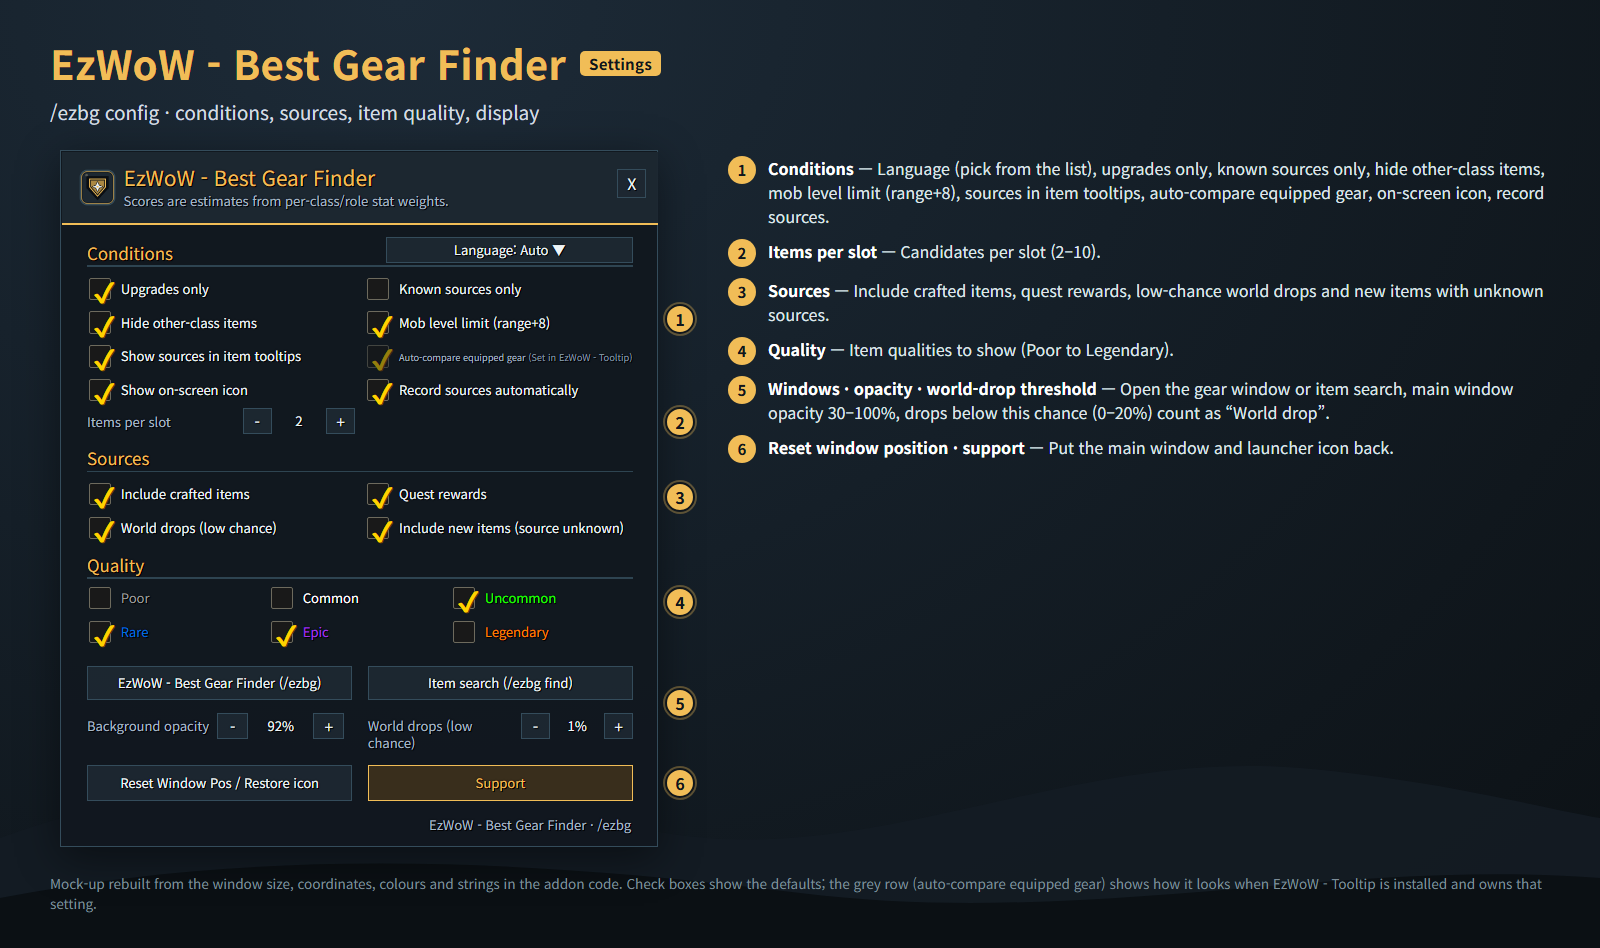
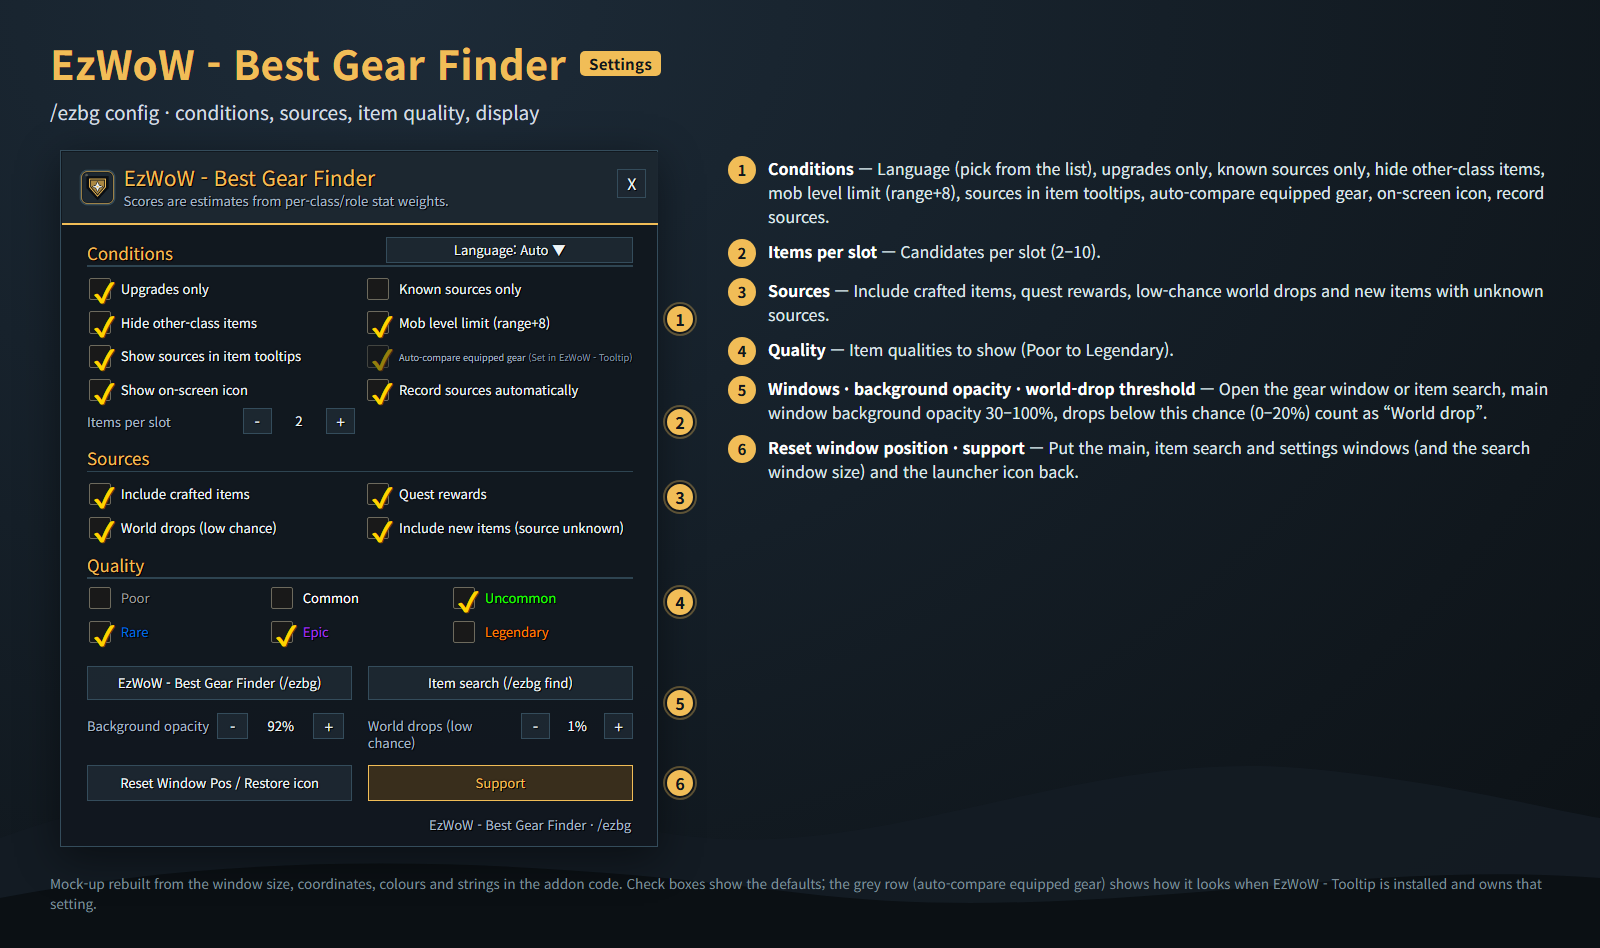
Update README, CurseForge description and example images

Changed region(s): [[0.4688, 0.3977, 0.9688, 0.4895], [0.4688, 0.4895, 0.6875, 0.52]]

diff --git a/scripts/make_readme_images.py b/scripts/make_readme_images.py
@@ -521,8 +521,8 @@ T = {
             ("슬롯당 표시 개수", "부위마다 보여 줄 후보 수(2~10)."),
             ("출처", "제작템, 퀘스트 보상, 저확률 월드 드랍, 출처 불명 신규 아이템 포함 여부."),
             ("등급", "표시할 아이템 품질(하급~전설)."),
-            ("창 열기 · 투명도 · 월드 드랍 기준", "추천 장비 창 · 아이템 검색 창 단추, 메인 창 불투명도 30~100%, 이 확률(0~20%) 미만 드랍은 “월드 드랍”."),
-            ("창 위치 초기화 · 후원", "메인 창과 런처 아이콘을 제자리로."),
+            ("창 열기 · 배경 불투명도 · 월드 드랍 기준", "추천 장비 창 · 아이템 검색 창 단추, 메인 창 배경 불투명도 30~100%, 이 확률(0~20%) 미만 드랍은 “월드 드랍”."),
+            ("창 위치 초기화 · 후원", "메인 창 · 아이템 검색 창 · 설정창 위치(검색 창 크기 포함)와 런처 아이콘을 제자리로."),
         ],
         "sFoot": "애드온 코드의 창 크기 · 좌표 · 색상 · 문구로 재현한 예시 화면입니다. 체크 상태는 기본값이며, 회색 줄(착용 장비 비교)은 EzWoW - Tooltip이 함께 설치되어 그쪽에서 설정하는 경우의 모습입니다.",
     },
@@ -568,8 +568,8 @@ T = {
             ("Items per slot", "Candidates per slot (2–10)."),
             ("Sources", "Include crafted items, quest rewards, low-chance world drops and new items with unknown sources."),
             ("Quality", "Item qualities to show (Poor to Legendary)."),
-            ("Windows · opacity · world-drop threshold", "Open the gear window or item search, main window opacity 30–100%, drops below this chance (0–20%) count as “World drop”."),
-            ("Reset window position · support", "Put the main window and launcher icon back."),
+            ("Windows · background opacity · world-drop threshold", "Open the gear window or item search, main window background opacity 30–100%, drops below this chance (0–20%) count as “World drop”."),
+            ("Reset window position · support", "Put the main, item search and settings windows (and the search window size) and the launcher icon back."),
         ],
         "sFoot": "Mock-up rebuilt from the window size, coordinates, colours and strings in the addon code. Check boxes show the defaults; the grey row (auto-compare equipped gear) shows how it looks when EzWoW - Tooltip is installed and owns that setting.",
     },

diff --git a/README.md b/README.md
@@ -37,7 +37,7 @@ WoW Forever (`Interface: 16001`) · `/ezbg`
 |---|---|---|
 | ① | 정렬 | **추천순**(직업·역할별 스탯 가중치 점수, 기본) 또는 **30레벨 BiS 우선**. 방어도·초당 공격력·힘·민첩성·체력·지능·정신력 등을 체크하면 **체크한 값의 합계가 큰 순서**로 정렬합니다. |
 | ② | 요구 레벨 범위 | 두 칸에 레벨을 넣고 **검색**(또는 Enter). **자동(현재-10)**은 “내 레벨-10 ~ 내 레벨”로 되돌리며, 레벨이 오르면 같이 올라갑니다. |
-| ③ | 역할 열 · 단추 | 직업의 특성별 열(예: 징벌(딜) · 신성(힐) · 보호(탱))을 나란히 보여 줍니다. 오른쪽 위 **내 캐릭터 ▼**에서 다른 직업을 골라 미리 볼 수 있습니다(이때는 내 장비와 비교하지 않습니다). **아이템 검색**은 전체 아이템 검색 창을, **설정**은 설정창을 엽니다. |
+| ③ | 역할 열 · 단추 | 직업의 특성별 열(예: 징벌(딜) · 신성(힐) · 보호(탱))을 나란히 보여 줍니다. 오른쪽 위 **내 캐릭터 ▼**에서 다른 직업을 골라 미리 볼 수 있습니다(이때는 내 장비와 비교하지 않습니다. 목록에는 지금 보고 있는 직업이 `>` 표시와 금색으로 나옵니다). 정렬·직업 펼침 메뉴는 바깥을 누르면 닫힙니다. **아이템 검색**은 전체 아이템 검색 창을, **설정**은 설정창을 엽니다. |
 | ④ | 부위(슬롯) 헤더 | 클릭하면 모든 역할 열에서 그 부위를 접거나 펼칩니다. 접힌 상태는 저장됩니다. |
 | ⑤ | 추천 행 | 녹색 배경과 `▲ +%`는 **업그레이드**, 회색 `%`는 참고용, `BiS`(노랑)/`BiS*`(회색)는 30레벨 BiS 목록 1순위/대체 장비입니다. 셋째 줄은 **요구 레벨 · 획득처**(던전 이름, `제작:대장기술`, `퀘스트:…`, `상인:…`, `월드 드랍`)입니다. |
 | ⑥ | 행 툴팁 | 착용 장비 대비 변화, 추정 점수(이 아이템 / 착용 중)를 보여 줍니다. **우클릭**: EzWoW - Map Finder로 획득처(보스·퀘스트 `Q `·상인 `N `) 위치 검색 / **Shift+좌클릭**: 채팅 링크 / **Ctrl+좌클릭**: 착용 미리보기 |
@@ -47,9 +47,10 @@ WoW Forever (`Interface: 16001`) · `/ezbg`
 #### 그 밖의 기능
 
 - **퀘스트 수락 레벨 검사**: 지금 레벨(또는 지정한 범위)에서 받을 수 없는 고레벨 퀘스트 보상은 후보에서 뺍니다.
-- **획득처 자동 기록**: 전리품, 퀘스트 보상, 상인 목록에서 기본 데이터에 없던 획득처를 배워 바로 추천과 툴팁에 반영합니다(`/ezbg 기록`, `/ezbg 내보내기`).
+- **획득처 자동 기록**: 전리품, 퀘스트 보상, 상인 목록에서 기본 데이터에 없던 획득처를 배워 바로 추천과 툴팁에 반영합니다(`/ezbg 기록`, `/ezbg 내보내기`). 회색(잡동사니) 아이템은 기록하지 않고, 예전에 기록된 회색 아이템 항목은 자동으로 지웁니다. 전투 중에 기록되면 “획득처를 기록했습니다” 알림은 전투가 끝난 뒤 채팅에 나옵니다.
 - **아이템 툴팁 확장**: 가방·보상·채팅 링크 아이템에 역할별 BiS 여부와 획득처를 덧붙입니다. 목록에 마우스를 올리면 착용 장비 비교 툴팁을 함께 띄웁니다.
-- **전체 아이템 검색 창** (`/ezbg find 이름`): 이름, 드랍 보스, 요구 레벨, 품질, 획득처 종류, 착용 분류(무기·방어구·방패·성물·목걸이·반지·장신구 등)로 전체 데이터베이스를 찾습니다.
+- **전체 아이템 검색 창** (`/ezbg find 이름`): 이름, 드랍 보스, 요구 레벨, 품질, 획득처 종류, 착용 분류(무기·방어구·방패·성물·목걸이·반지·장신구 등)로 전체 데이터베이스를 찾습니다. 오른쪽 아래 모서리를 끌어 창 크기를 바꿀 수 있고(크기 저장), 배경 불투명도 막대가 있습니다.
+- **가벼운 백그라운드 준비**: 아이템 목록은 창을 열거나 툴팁 표시가 필요할 때 조금씩 만들며, 전투 중에는 잠시 멈췄다가 전투가 끝나면 이어 갑니다.
 
 ### 설정창 (`/ezbg config`)
 
@@ -70,9 +71,9 @@ WoW Forever (`Interface: 16001`) · `/ezbg`
 | ③ | 신규 아이템 포함 (출처 불명) | 게임에서 새로 확인된 출처 미확인 아이템 포함 | 켬 |
 | ④ | 등급 | 하급·일반·고급·희귀·영웅·전설 중 표시할 품질 | 고급·희귀·영웅 |
 | ⑤ | 창 열기 버튼 | 추천 장비 창(/ezbg), 아이템 검색 창(/ezbg find) | - |
-| ⑥ | 투명도 | 메인 창 배경 30~100% (5% 단위) | 92% |
+| ⑥ | 배경 불투명도 | 메인 창 배경 30~100% (5% 단위) | 92% |
 | ⑥ | 월드 드랍 기준 | 이 확률(0~20%, 0.5% 단위) 미만 드랍은 “월드 드랍”으로 분류 | 1% |
-| ⑦ | 창 위치 초기화 / 아이콘 복원 · 후원 | 메인 창과 런처 아이콘 위치 초기화 | - |
+| ⑦ | 창 위치 초기화 / 아이콘 복원 · 후원 | 메인 창 · 아이템 검색 창 · 설정창 위치와 검색 창 크기, 런처 아이콘 위치 초기화 | - |
 
 ### 명령어 (`/ezbg`, `/bgf`, `/bestgear`, `/내템`)
 
@@ -89,14 +90,14 @@ WoW Forever (`Interface: 16001`) · `/ezbg`
 | `/ezbg 아이콘` (`icon`) | 런처 아이콘 보이기/숨기기 |
 | `/ezbg 재검색` (`rescan`) | 신규 아이템 캐시 초기화 후 다시 탐색 |
 | `/ezbg 기록` · `/ezbg 내보내기` | 자동 학습한 획득처 수 · 내보내기 창 |
-| `/ezbg 슬롯` · `/ezbg 진단` · `/ezbg 왜 아이템ID` | 슬롯별 요약 · 상태 진단 · 특정 아이템이 왜 빠졌는지 |
-| `/ezbg 초기화` (`reset`) | 창·아이콘 위치 초기화 |
+| `/ezbg 슬롯` · `/ezbg 진단` · `/ezbg 왜 아이템ID` · `/ezbg 툴팁` | 슬롯별 요약 · 상태 진단 · 특정 아이템이 왜 빠졌는지 · 아이템 툴팁 진단 |
+| `/ezbg 초기화` (`reset`) | 창(메인 · 검색 · 설정) 위치, 검색 창 크기, 아이콘 위치 초기화 |
 | `/ezbg lang <auto\|ko\|en\|de\|fr\|es\|ru\|cn\|tw>` | 표시 언어 변경 |
 | `/ezbg 도움말` (`help`) | 주요 명령어 목록 |
 
 ### 저장 데이터
 
-- `EzWoW_BestGearFinderDB`: 설정, 캐릭터별 레벨 범위, 접힌 부위, 창 위치, 자동 학습한 획득처.
+- `EzWoW_BestGearFinderDB`: 설정, 캐릭터별 레벨 범위, 접힌 부위, 창 위치, 검색 창 크기, 자동 학습한 획득처.
 
 ### 알아두면 좋은 점
 
@@ -137,7 +138,7 @@ Best Gear Finder shows the **best gear you can wear right now** for your class a
 |---|---|---|
 | ① | Sort | **Recommended** (role stat-weight score, default) or **Level 30 BiS first**. Tick armor, DPS, Strength, Agility, Stamina, Intellect, Spirit… to sort by **the sum of the ticked stats**. |
 | ② | Required-level range | Enter two levels and press **Search** (or Enter). **Auto (Lv-10)** returns to “your level - 10 ~ your level” and follows you as you level. |
-| ③ | Role columns · buttons | One column per spec (e.g. Retribution (DPS) · Holy (Heal) · Protection (Tank)). **My character ▼** previews other classes (no comparison with your gear in that mode). **Item search** opens the full item search, **Settings** the settings window. |
+| ③ | Role columns · buttons | One column per spec (e.g. Retribution (DPS) · Holy (Heal) · Protection (Tank)). **My character ▼** previews other classes (no comparison with your gear in that mode; the class being shown is marked with `>` in gold). The sort and class drop-downs close when you click anywhere else. **Item search** opens the full item search, **Settings** the settings window. |
 | ④ | Slot header | Click to collapse/expand that slot in every column. The state is saved. |
 | ⑤ | Item row | Green background and `▲ +%` = **upgrade**, grey `%` = reference only, `BiS` (yellow) / `BiS*` (grey) = level-30 BiS main / alternative. The third line shows **required level · source** (dungeon, `Craft: Blacksmithing`, `Quest: …`, `Vendor: …`, `World drop`). |
 | ⑥ | Row tooltip | Change versus equipped and estimated score (this item / equipped). **Right-click**: find the source (boss, quest `Q `, vendor `N `) with EzWoW - Map Finder / **Shift+left-click**: link in chat / **Ctrl+left-click**: dress-up preview |
@@ -147,9 +148,10 @@ Best Gear Finder shows the **best gear you can wear right now** for your class a
 #### More features
 
 - **Quest level check**: quest rewards you cannot pick up yet at your level (or chosen range) are left out.
-- **Learning sources**: loot, quest rewards and vendor lists teach the addon sources missing from its data; they show up in recommendations and tooltips at once (`/ezbg 기록`, `/ezbg export`).
+- **Learning sources**: loot, quest rewards and vendor lists teach the addon sources missing from its data; they show up in recommendations and tooltips at once (`/ezbg learned`, `/ezbg export`). Grey (junk) items are never recorded, and entries recorded for them earlier are removed. When a source is recorded during combat, the chat notice appears after the fight.
 - **Item tooltips**: bag, reward and chat-link tooltips get BiS info per role and the sources. Hovering list rows also opens the equipped-gear comparison.
-- **Full item search** (`/ezbg find name`): search the whole database by name, boss, required level, quality, source type and equip slot (weapons, armor, shields, relics, necks, rings, trinkets, …).
+- **Full item search** (`/ezbg find name`): search the whole database by name, boss, required level, quality, source type and equip slot (weapons, armor, shields, relics, necks, rings, trinkets, …). Drag its bottom-right corner to resize it (the size is saved); it has its own background opacity slider.
+- **Light background work**: the item list is built in small steps when it is needed (opening the window or showing tooltip sources) and pauses during combat, continuing afterwards.
 
 ### Settings window (`/ezbg config`)
 
@@ -170,9 +172,9 @@ Best Gear Finder shows the **best gear you can wear right now** for your class a
 | ③ | Include new items (source unknown) | Items newly seen in the game with no known source | On |
 | ④ | Quality | Poor, Common, Uncommon, Rare, Epic, Legendary | Uncommon · Rare · Epic |
 | ⑤ | Window buttons | Gear window (/ezbg), item search (/ezbg find) | - |
-| ⑥ | Opacity | Main window background 30–100% (5% steps) | 92% |
+| ⑥ | Background opacity | Main window background 30–100% (5% steps) | 92% |
 | ⑥ | World-drop threshold | Drops below this chance (0–20%, 0.5% steps) count as “World drop” | 1% |
-| ⑦ | Reset Window Pos / Restore icon · Support | Reset the main window and launcher icon | - |
+| ⑦ | Reset Window Pos / Restore icon · Support | Reset the main, item search and settings window positions, the search window size and the launcher icon | - |
 
 ### Slash commands (`/ezbg`, `/bgf`, `/bestgear`, `/내템`)
 
@@ -189,14 +191,14 @@ Best Gear Finder shows the **best gear you can wear right now** for your class a
 | `/ezbg icon` | Show/hide the launcher icon |
 | `/ezbg rescan` | Clear the new-item cache and scan again |
 | `/ezbg learned` · `/ezbg export` | Count of learned sources · export window |
-| `/ezbg slot` · `/ezbg diag` · `/ezbg why itemID` | Per-slot summary · diagnostics · why an item is excluded |
-| `/ezbg reset` | Reset window and icon positions |
+| `/ezbg slot` · `/ezbg diag` · `/ezbg why itemID` · `/ezbg tip` | Per-slot summary · diagnostics · why an item is excluded · item tooltip diagnostics |
+| `/ezbg reset` | Reset window positions (main, search, settings), the search window size and the icon position |
 | `/ezbg lang <auto\|ko\|en\|de\|fr\|es\|ru\|cn\|tw>` | Change display language |
 | `/ezbg help` | List the main commands |
 
 ### Saved data
 
-- `EzWoW_BestGearFinderDB`: settings, per-character level range, collapsed slots, window position, learned sources.
+- `EzWoW_BestGearFinderDB`: settings, per-character level range, collapsed slots, window positions, search window size, learned sources.
 
 ### Tips
 

diff --git a/docs/curseforge_description.md b/docs/curseforge_description.md
@@ -1,5 +1,6 @@
 <!--
 CurseForge summary (EN): Finds the best gear you can wear right now for your class and level, DPS / heal / tank side by side, and shows where it drops, who crafts it or which quest gives it.
+CurseForge summary (KO): 내 직업·레벨에서 지금 입을 수 있는 최고 장비를 딜/힐/탱 나란히 비교하고, 어디서 드랍되는지·누가 만드는지·어떤 퀘스트에서 주는지 알려 줍니다.
 -->
 
 # EzWoW - Best Gear Finder
@@ -17,20 +18,25 @@ Finds the **best gear you can wear right now** for your class and level, slot by
 ## Features
 
 ### Gear window (`/ezbg`)
-- One column per spec (for example Retribution / Holy / Protection), one block per slot; click a slot header to fold it.
+- One column per spec (for example Retribution / Holy / Protection), one block per slot; click a slot header to fold it in every column.
 - Sort by recommendation (role stat weights), level-30 BiS first, or by the sum of chosen stats (armor, DPS, Strength, Agility, Stamina, Intellect, Spirit).
 - Required-level range you can type, or "Auto" (your level - 10 up to your level) that follows you as you level.
 - Green rows and ▲ mark upgrades; `BiS` / `BiS*` mark the level-30 BiS list; the third line shows the required level and source.
 - Hover a row for the comparison with your equipped item and the estimated score. Right-click to find the source on the map (with EzWoW - Map Finder), Shift+click to link, Ctrl+click to preview.
-- Preview other classes from the "My character" menu.
+- Preview other classes from the "My character" menu (the class being shown is marked). Drop-down menus close when you click anywhere else.
+- Drag the bottom-right corner to change the window height; the background opacity is set in the settings.
 
 ### Item tooltips
 - Bag, reward and chat-link gear shows BiS per role and the sources; crafted gear also lists reagents and where the recipe is learned.
 
+### Item search (`/ezbg find name`)
+- Search the whole database by name, boss, required level, quality, source type and slot (weapons, armor, shields, relics, necks, rings, trinkets…).
+- The window can be resized from its bottom-right corner; the size is remembered.
+
 ### More
-- Full item search (`/ezbg find name`) by name, boss, level, quality, source type and slot.
-- Learns sources that are missing from its data while you loot, take quest rewards or browse vendors.
+- Learns sources that are missing from its data while you loot, take quest rewards or browse vendors. Grey (junk) items are skipped, and "source recorded" messages that come in during combat are shown after the fight.
 - Quest rewards you cannot pick up yet at your level are left out.
+- The item list is built in the background in small steps and pauses during combat.
 
 ## Working with other EzWoW addons
 - **EzWoW - Tooltip**: when this addon shows its source block on a gear tooltip, EzWoW - Tooltip leaves out its own source lines for that item. Comparing with equipped gear without Shift is set in EzWoW - Tooltip; the option here turns grey while it is installed.
@@ -41,6 +47,7 @@ Finds the **best gear you can wear right now** for your class and level, slot by
 - `/ezbg config` — settings
 - `/ezbg find name` — full item search
 - `/ezbg 20-35` — set the required-level range
+- `/ezbg reset` — put the windows and the launcher icon back
 - `/ezbg help` — list the commands
 
 Scores are estimates from per-class and per-role stat weights.
@@ -62,20 +69,25 @@ Languages: English, 한국어, Deutsch, Français, Español, Русский, 简
 ## 기능
 
 ### 추천 장비 창 (`/ezbg`)
-- 특성별 열(예: 징벌 / 신성 / 보호), 부위별 묶음. 부위 제목을 누르면 접고 펼칩니다.
+- 특성별 열(예: 징벌 / 신성 / 보호), 부위별 묶음. 부위 제목을 누르면 모든 열에서 접고 펼칩니다.
 - 추천순(역할별 스탯 가중치), 30레벨 BiS 우선, 또는 고른 스탯(방어도 · 초당 공격력 · 힘 · 민첩성 · 체력 · 지능 · 정신력)의 합계 순으로 정렬.
 - 요구 레벨 범위를 직접 입력하거나 "자동"(내 레벨-10 ~ 내 레벨)으로 두면 레벨이 오를 때 같이 바뀝니다.
 - 녹색 행과 ▲는 업그레이드, `BiS` / `BiS*`는 30레벨 BiS 목록, 셋째 줄은 요구 레벨과 획득처.
 - 행에 마우스를 올리면 착용 장비와의 비교와 추정 점수. 우클릭: 지도에서 획득처 찾기(EzWoW - Map Finder), Shift+클릭: 링크, Ctrl+클릭: 미리보기.
-- "내 캐릭터" 메뉴에서 다른 직업도 미리 볼 수 있습니다.
+- "내 캐릭터" 메뉴에서 다른 직업도 미리 볼 수 있습니다(지금 보고 있는 직업이 표시됨). 펼침 메뉴는 바깥을 누르면 닫힙니다.
+- 오른쪽 아래 모서리를 끌어 창 높이를 바꾸고, 배경 불투명도는 설정창에서 정합니다.
 
 ### 아이템 툴팁
 - 가방 · 보상 · 채팅 링크 장비에 역할별 BiS 여부와 획득처를 표시하고, 제작품은 재료와 도안 배우는 곳까지 보여 줍니다.
 
+### 아이템 검색 (`/ezbg find 이름`)
+- 이름 · 보스 · 요구 레벨 · 품질 · 획득처 종류 · 부위(무기 · 방어구 · 방패 · 성물 · 목걸이 · 반지 · 장신구 등)로 전체 데이터베이스를 찾습니다.
+- 오른쪽 아래 모서리를 끌어 창 크기를 바꿀 수 있고, 크기는 저장됩니다.
+
 ### 그 밖의 기능
-- 전체 아이템 검색(`/ezbg find 이름`): 이름 · 보스 · 레벨 · 품질 · 획득처 종류 · 부위로 검색.
-- 루팅 · 퀘스트 보상 · 상인 목록에서 데이터에 없던 획득처를 배워 바로 반영합니다.
+- 루팅 · 퀘스트 보상 · 상인 목록에서 데이터에 없던 획득처를 배워 바로 반영합니다. 회색(잡동사니) 아이템은 기록하지 않으며, 전투 중에 기록된 알림은 전투가 끝난 뒤 채팅에 표시합니다.
 - 지금 레벨에서 받을 수 없는 퀘스트 보상은 후보에서 뺍니다.
+- 아이템 목록은 배경에서 조금씩 만들고, 전투 중에는 잠시 멈춥니다.
 
 ## 다른 EzWoW 애드온과 함께 쓰기
 - **EzWoW - Tooltip**: 장비 툴팁에 이 애드온의 획득처 블록이 나오면 EzWoW - Tooltip은 그 아이템의 획득처 줄을 생략합니다. "Shift 없이 착용 장비 비교"는 EzWoW - Tooltip에서 설정하며, 설치되어 있는 동안 이 애드온의 해당 칸은 회색이 됩니다.
@@ -86,6 +98,7 @@ Languages: English, 한국어, Deutsch, Français, Español, Русский, 简
 - `/ezbg config` (`설정`) — 설정창
 - `/ezbg find 이름` (`검색 이름`) — 전체 아이템 검색
 - `/ezbg 20-35` — 요구 레벨 범위 지정
+- `/ezbg 초기화` (`reset`) — 창과 런처 아이콘 위치 초기화
 - `/ezbg 도움말` (`help`) — 명령어 목록
 
 점수는 직업 · 역할별 스탯 가중치로 계산한 추정치입니다.
